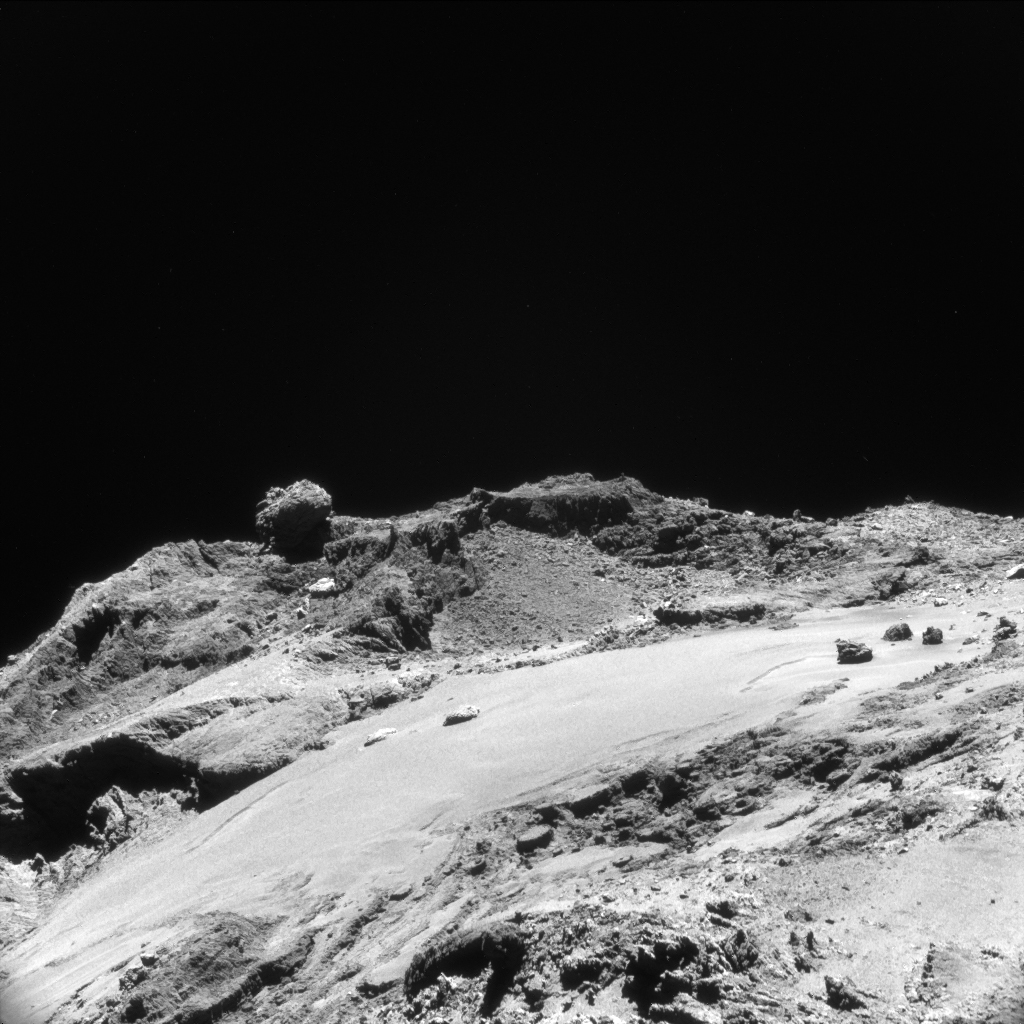
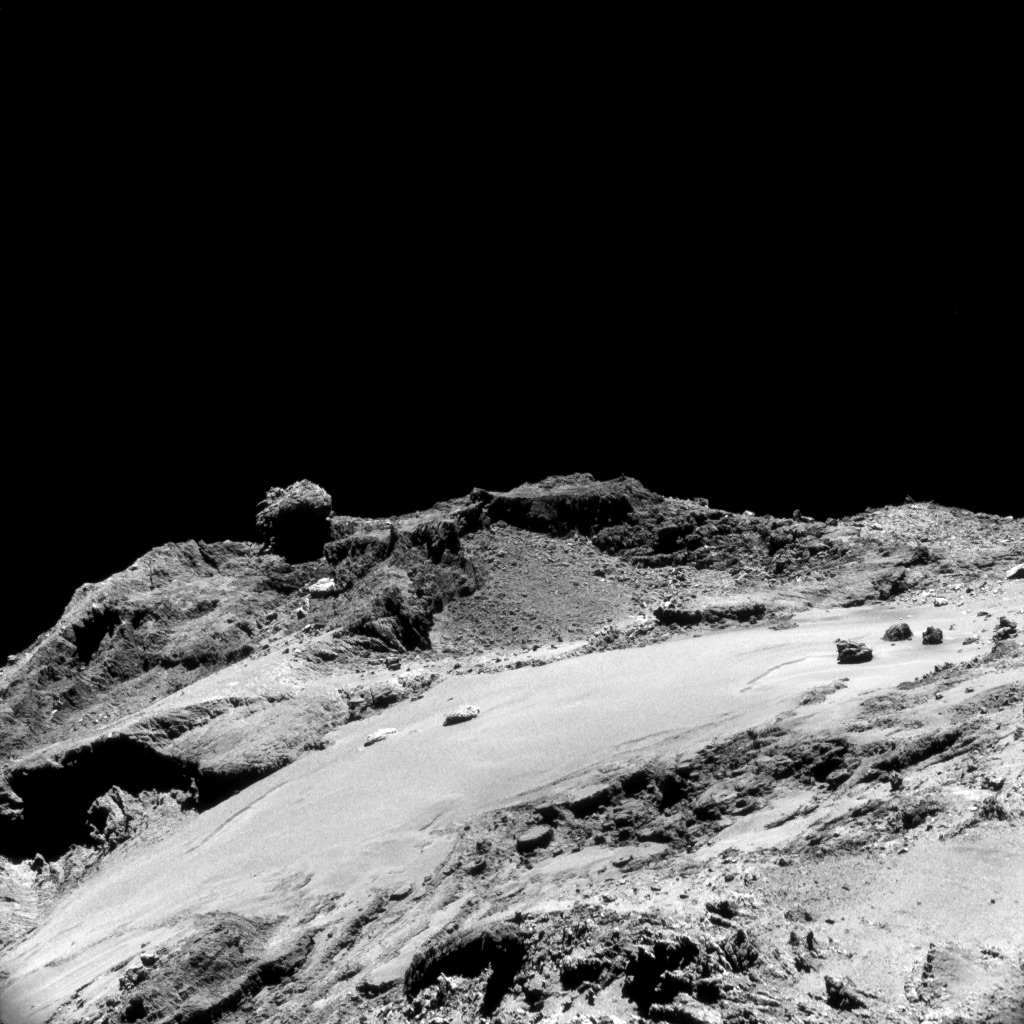
add comet to main page and improved pictures

diff --git a/index2.html b/index2.html
@@ -62,6 +62,12 @@
       </a>
       <figcaption>Terraformed Mars</figcaption>
     </figure>
+    <figure>
+      <a href="#main">
+        <img src=img/rosetta.jpg id=select-t-rosetta class=select-planet>
+      </a>
+      <figcaption>67P/Churyumov–Gerasimenko</figcaption>
+    </figure>
   </div>
 </div>
 <div id=mainpage class=page>

diff --git a/index.js b/index.js
@@ -83,4 +83,8 @@ document.getElementById("select-t-mars").onclick = function(e) {
   Scenario.Site = sites["Terraformed Mars"];
 };
 
+document.getElementById("select-t-rosetta").onclick = function(e) {
+  Scenario.Site = sites["67P/Churyumov–Gerasimenko"];
+};
+
 window.onhashchange = navigation;
